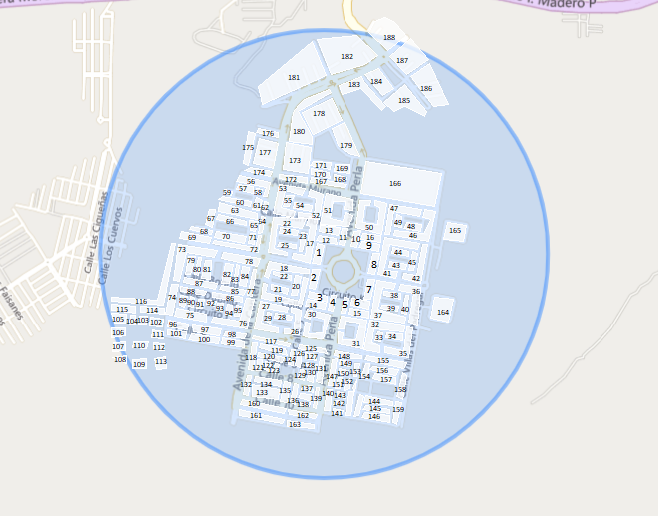
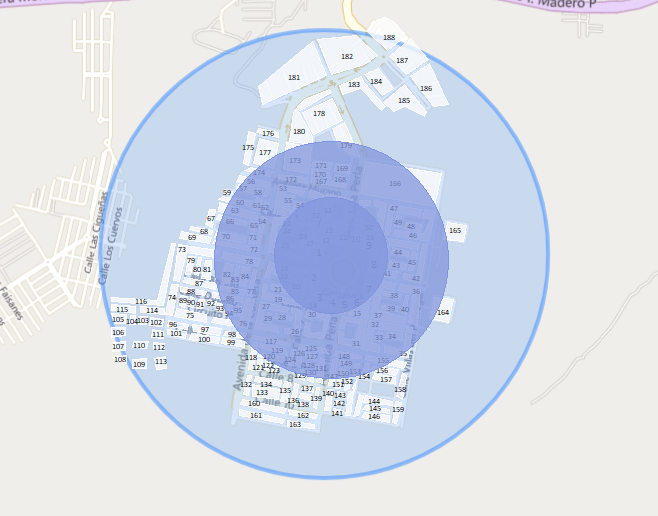
Commit cambios mapa, colores

Changed region(s): [[0.304, 0.2481, 0.6991, 0.7442]]

diff --git a/My_map.py b/My_map.py
@@ -61,19 +61,30 @@ st.markdown("""
         </button>
     </a>
     """, unsafe_allow_html=True)
-filtro_ubi=st.sidebar.multiselect('Filtro',df['Ubicacion'].unique())
+filtro_ubi=st.sidebar.multiselect('Filtro para ubicación',df['Ubicacion'].unique())
 
 if filtro_ubi:
     df = df[df['Ubicacion'].isin(filtro_ubi)]
 #    catalogo_suc=catalogo_suc[catalogo_suc['Sucursal'].isin(filtro_ubi)]
 
-filtro_tipo=st.sidebar.multiselect('Filtro tipo',df['Tipo'].unique())
+filtro_tipo=st.sidebar.multiselect('Filtro de segmentación',df['Tipo'].unique())
 
 if filtro_tipo:
     df=df[df['Tipo'].isin(filtro_tipo)]
 
-filtro_descripsion_sec=st.sidebar.multiselect('Filtro descripción de sectores',df['Descripcion_del_Sector_Economico'].unique())
+filtro_descripsion_sec=st.sidebar.multiselect('Filtro descripción de sectores de la segmentación',df['Descripcion_del_Sector_Economico'].unique())
 
+map_type = st.sidebar.radio(
+    "Selecciona el tipo de mapa",
+    ( 'Mapa estándar', 'Satelital')
+)
+
+if map_type == 'Satelital':
+    tiles_option = 'https://server.arcgisonline.com/ArcGIS/rest/services/World_Imagery/MapServer/tile/{z}/{y}/{x}'
+    tiles_attr = 'Tiles © Esri — Source: Esri, DeLorme, NAVTEQ, USGS, Intermap, iPC, NRCAN, Esri Japan, METI, Esri China (Hong Kong), Esri (Thailand), TomTom, 2012'
+else:
+    tiles_option = 'OpenStreetMap'
+    tiles_attr = None
 
 if filtro_descripsion_sec:
     df=df[df['Descripcion_del_Sector_Economico'].isin(filtro_descripsion_sec)]
@@ -89,14 +100,14 @@ centro = (latitud_cluster, longitud_cluster)
 mapa = folium.Map(
     location=[latitud_cluster, longitud_cluster],
     zoom_start=15,
-    tiles='https://server.arcgisonline.com/ArcGIS/rest/services/World_Imagery/MapServer/tile/{z}/{y}/{x}',
-    attr='Tiles © Esri — Source: Esri, DeLorme, NAVTEQ, USGS, Intermap, iPC, NRCAN, Esri Japan, METI, Esri China (Hong Kong), Esri (Thailand), TomTom, 2012'
+    tiles=tiles_option,
+    attr=tiles_attr
 )
 
 folium.Circle(
     radius=500,  
     location=[latitud_cluster, longitud_cluster],
-    color="blue",
+    color="#b5b5b5",
     fill=True,
     fill_opacity=0.3
 ).add_to(mapa)
@@ -104,7 +115,7 @@ folium.Circle(
 folium.Circle(
     radius=1000,  
     location=[latitud_cluster, longitud_cluster],
-    color="blue",
+    color="#b5b5b5",
     fill=True,
     fill_opacity=0.2
 ).add_to(mapa)
@@ -132,11 +143,11 @@ with col2:
 
 def asignar_color(tipo):
     if tipo == 'Clientes':
-        return 'green'
+        return '#0b7365'
     elif tipo == 'Generador':
-        return 'lightblue'
+        return '#1c4373'
     else:
-        return 'red'
+        return '#5e0001'
 
 def obtener_bounds(centro, radio_km):
     norte = geodesic(kilometers=radio_km).destination(centro, 0).latitude
@@ -153,18 +164,6 @@ def filtrar_por_distancia_rango(df, centro, radio_min_metros, radio_max_metros):
     return df[df.apply(lambda row: radio_min_metros < geodesic(centro, (row['Latitud'], row['Longitud'])).meters <= radio_max_metros, axis=1)]   
 
 
-
-map_type = st.sidebar.radio(
-    "Selecciona el tipo de mapa",
-    ( 'Mapa estándar', 'Satelital')
-)
-
-if map_type == 'Satelital':
-    tiles_option = 'https://server.arcgisonline.com/ArcGIS/rest/services/World_Imagery/MapServer/tile/{z}/{y}/{x}'
-    tiles_attr = 'Tiles © Esri — Source: Esri, DeLorme, NAVTEQ, USGS, Intermap, iPC, NRCAN, Esri Japan, METI, Esri China (Hong Kong), Esri (Thailand), TomTom, 2012'
-else:
-    tiles_option = 'OpenStreetMap'
-    tiles_attr = None
 
 mymap = folium.Map(
     location=centro,
@@ -184,9 +183,9 @@ folium.Marker(
 ).add_to(mymap)
 
 radio_km = 1000 
-folium.Circle(location=centro, radius=radio_km, color=None, fill=True, fill_color="blue",fill_opacity=0.4).add_to(mymap)
+folium.Circle(location=centro, radius=radio_km, color=None, fill=True, fill_color="#b5b5b5",fill_opacity=0.4).add_to(mymap)
 radio_km = 500 
-folium.Circle(location=centro, radius=radio_km, color=None, fill=True, fill_color="blue",fill_opacity=0.6).add_to(mymap)
+folium.Circle(location=centro, radius=radio_km, color=None, fill=True, fill_color="#b5b5b5",fill_opacity=0.6).add_to(mymap)
 bounds = obtener_bounds(centro, 1) 
 mymap.fit_bounds(bounds)
 
@@ -270,9 +269,9 @@ with col1:
 with col3:
     st.markdown(
     f"""
-    <div style="background-color: lightgreen; padding: 20px; border-radius: 15px; margin-bottom: 20px;">
-        <h4 style="text-align: center;">Clientes</h4>
-        <p style="font-size: 24px; font-weight: bold; text-align: center;">{num_clientes}</p>
+    <div style="background-color: #0b7365; padding: 20px; border-radius: 15px; margin-bottom: 20px;">
+        <h4 style="text-align: center;color: white; ">Clientes</h4>
+        <p style="font-size: 24px; font-weight: bold; text-align: center; color: white">{num_clientes}</p>
     </div>
     """,
     unsafe_allow_html=True
@@ -281,9 +280,9 @@ with col3:
 
     st.markdown(
     f"""
-    <div style="background-color: lightblue; padding: 20px; border-radius: 15px; margin-bottom: 20px;">
-        <h4 style="text-align: center;">Generadores</h4>
-        <p style="font-size: 24px; font-weight: bold; text-align: center;">{num_generadores}</p>
+    <div style="background-color: #1c4373; padding: 20px; border-radius: 15px; margin-bottom: 20px;">
+        <h4 style="text-align: center; color:white;">Generadores</h4>
+        <p style="font-size: 24px; font-weight: bold; text-align: center; color:white">{num_generadores}</p>
     </div>
     """,
     unsafe_allow_html=True
@@ -292,9 +291,9 @@ with col3:
 
     st.markdown(
     f"""
-    <div style="background-color: #e60000; padding: 20px; border-radius: 15px; margin-bottom: 20px;">
-        <h4 style="text-align: center;">Competencia</h4>
-        <p style="font-size: 24px; font-weight: bold; text-align: center;">{num_competencia}</p>
+    <div style="background-color: #5e0001; padding: 20px; border-radius: 15px; margin-bottom: 20px;">
+        <h4 style="text-align: center; color:white">Competencia</h4>
+        <p style="font-size: 24px; font-weight: bold; text-align: center; color:white">{num_competencia}</p>
     </div>
     """,
     unsafe_allow_html=True
